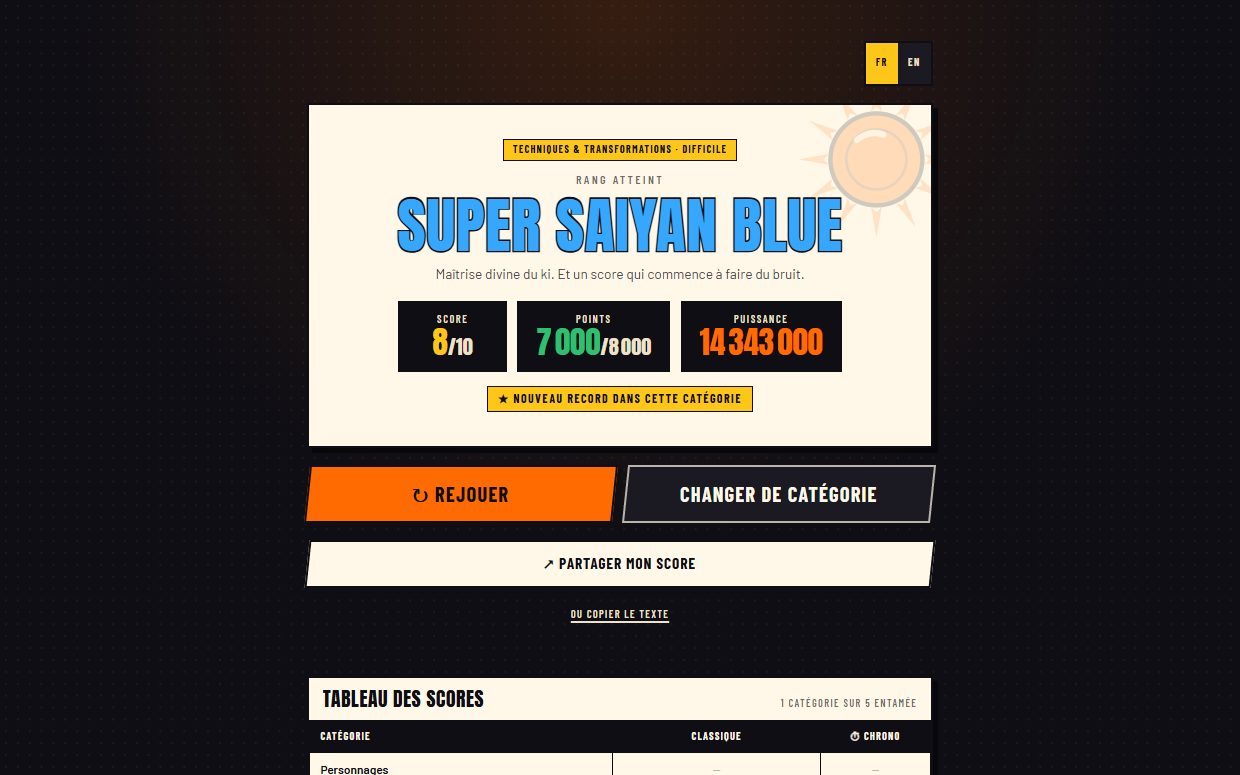
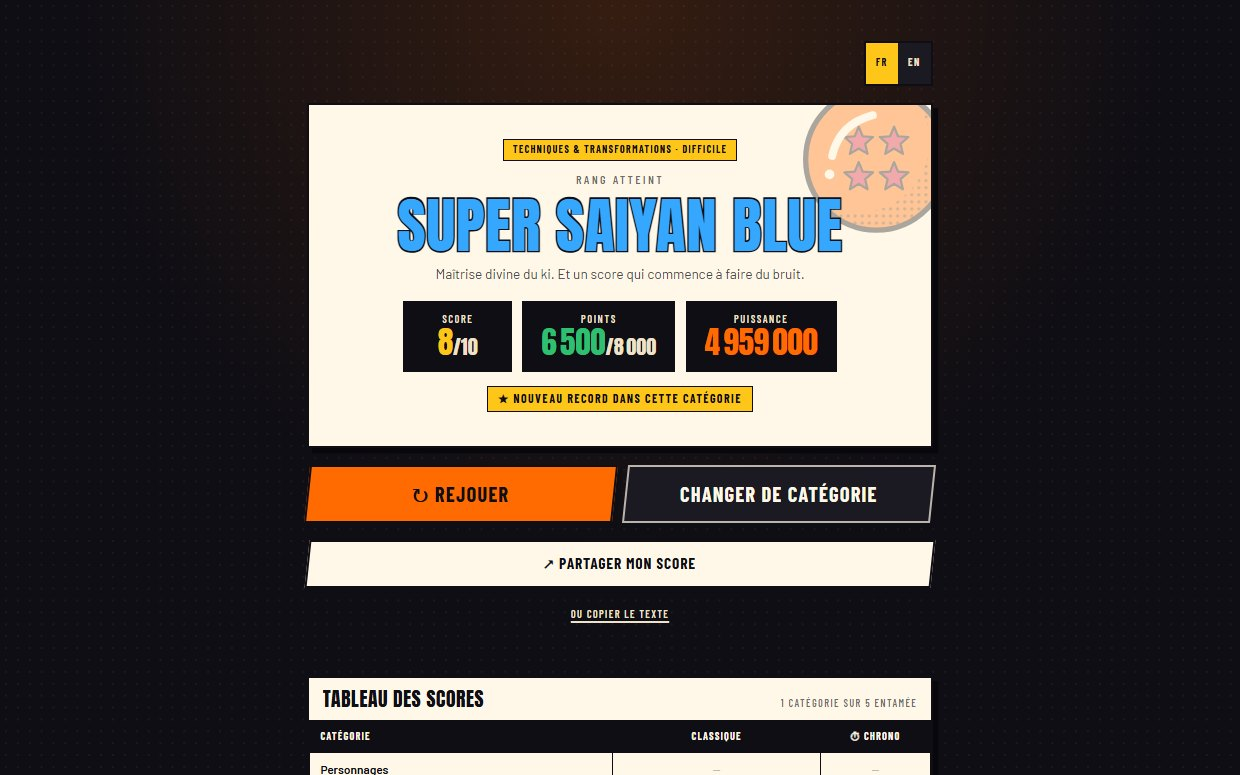
Met à jour l'étude de cas Dragon Ball Quiz avec la boule de cristal
Le quiz remplace son orbe abstraite par une boule de cristal dessinée :
nouvelles captures d'accueil et de résultat au même cadrage, aperçu de
partage en version 2 (LinkedIn garde l'ancien par URL), textes
alternatifs qui mentionnent la boule.

Changed region(s): [[0.3065, 0.3716, 0.7048, 0.4955], [0.6435, 0.1239, 0.7661, 0.3097]]

diff --git a/dragonballquiz.html b/dragonballquiz.html
@@ -12,12 +12,13 @@
   <meta property="og:url" content="https://boukamir.be/dragonballquiz.html">
   <meta property="og:locale" content="fr_BE">
   <link rel="canonical" href="https://boukamir.be/dragonballquiz.html">
-  <!-- Numéro de version dans le nom, comme apercu-cineyast-1.jpg : LinkedIn
-       garde l'image traitée par URL exacte. Incrémenter si l'aperçu est refait. -->
-  <meta property="og:image" content="https://boukamir.be/assets/apercu-dragonballquiz-1.jpg">
+  <!-- Numéro de version dans le nom, comme apercu-cineyast-3.jpg : LinkedIn
+       garde l'image traitée par URL exacte. Incrémenter si l'aperçu est refait.
+       -2 (14/09/2026) : la boule de cristal remplace l'orbe sur l'accueil. -->
+  <meta property="og:image" content="https://boukamir.be/assets/apercu-dragonballquiz-2.jpg">
   <meta property="og:image:width" content="1200">
   <meta property="og:image:height" content="630">
-  <meta property="og:image:alt" content="Page d'accueil de Dragon Ball Quiz : grand titre en lettrage manga et les cinq catégories du quiz">
+  <meta property="og:image:alt" content="Page d'accueil de Dragon Ball Quiz : grand titre en lettrage manga, une boule de cristal dessinée, et les cinq catégories du quiz">
   <meta name="twitter:card" content="summary_large_image">
 
   <link rel="preconnect" href="https://fonts.googleapis.com">
@@ -72,7 +73,7 @@
              srcset="assets/projets/dragonballquiz-accueil.jpg 620w, assets/projets/dragonballquiz-accueil@2x.jpg 1240w"
              sizes="(max-width: 900px) calc(100vw - 2 * var(--gutter)), 548px"
              width="1240" height="775"
-             alt="Page d'accueil de Dragon Ball Quiz : grand titre en lettrage manga sur fond sombre, et les catégories du quiz"
+             alt="Page d'accueil de Dragon Ball Quiz : grand titre en lettrage manga sur fond sombre, une boule de cristal dessinée, et les catégories du quiz"
              fetchpriority="high" decoding="async">
       </div>
     </section>
